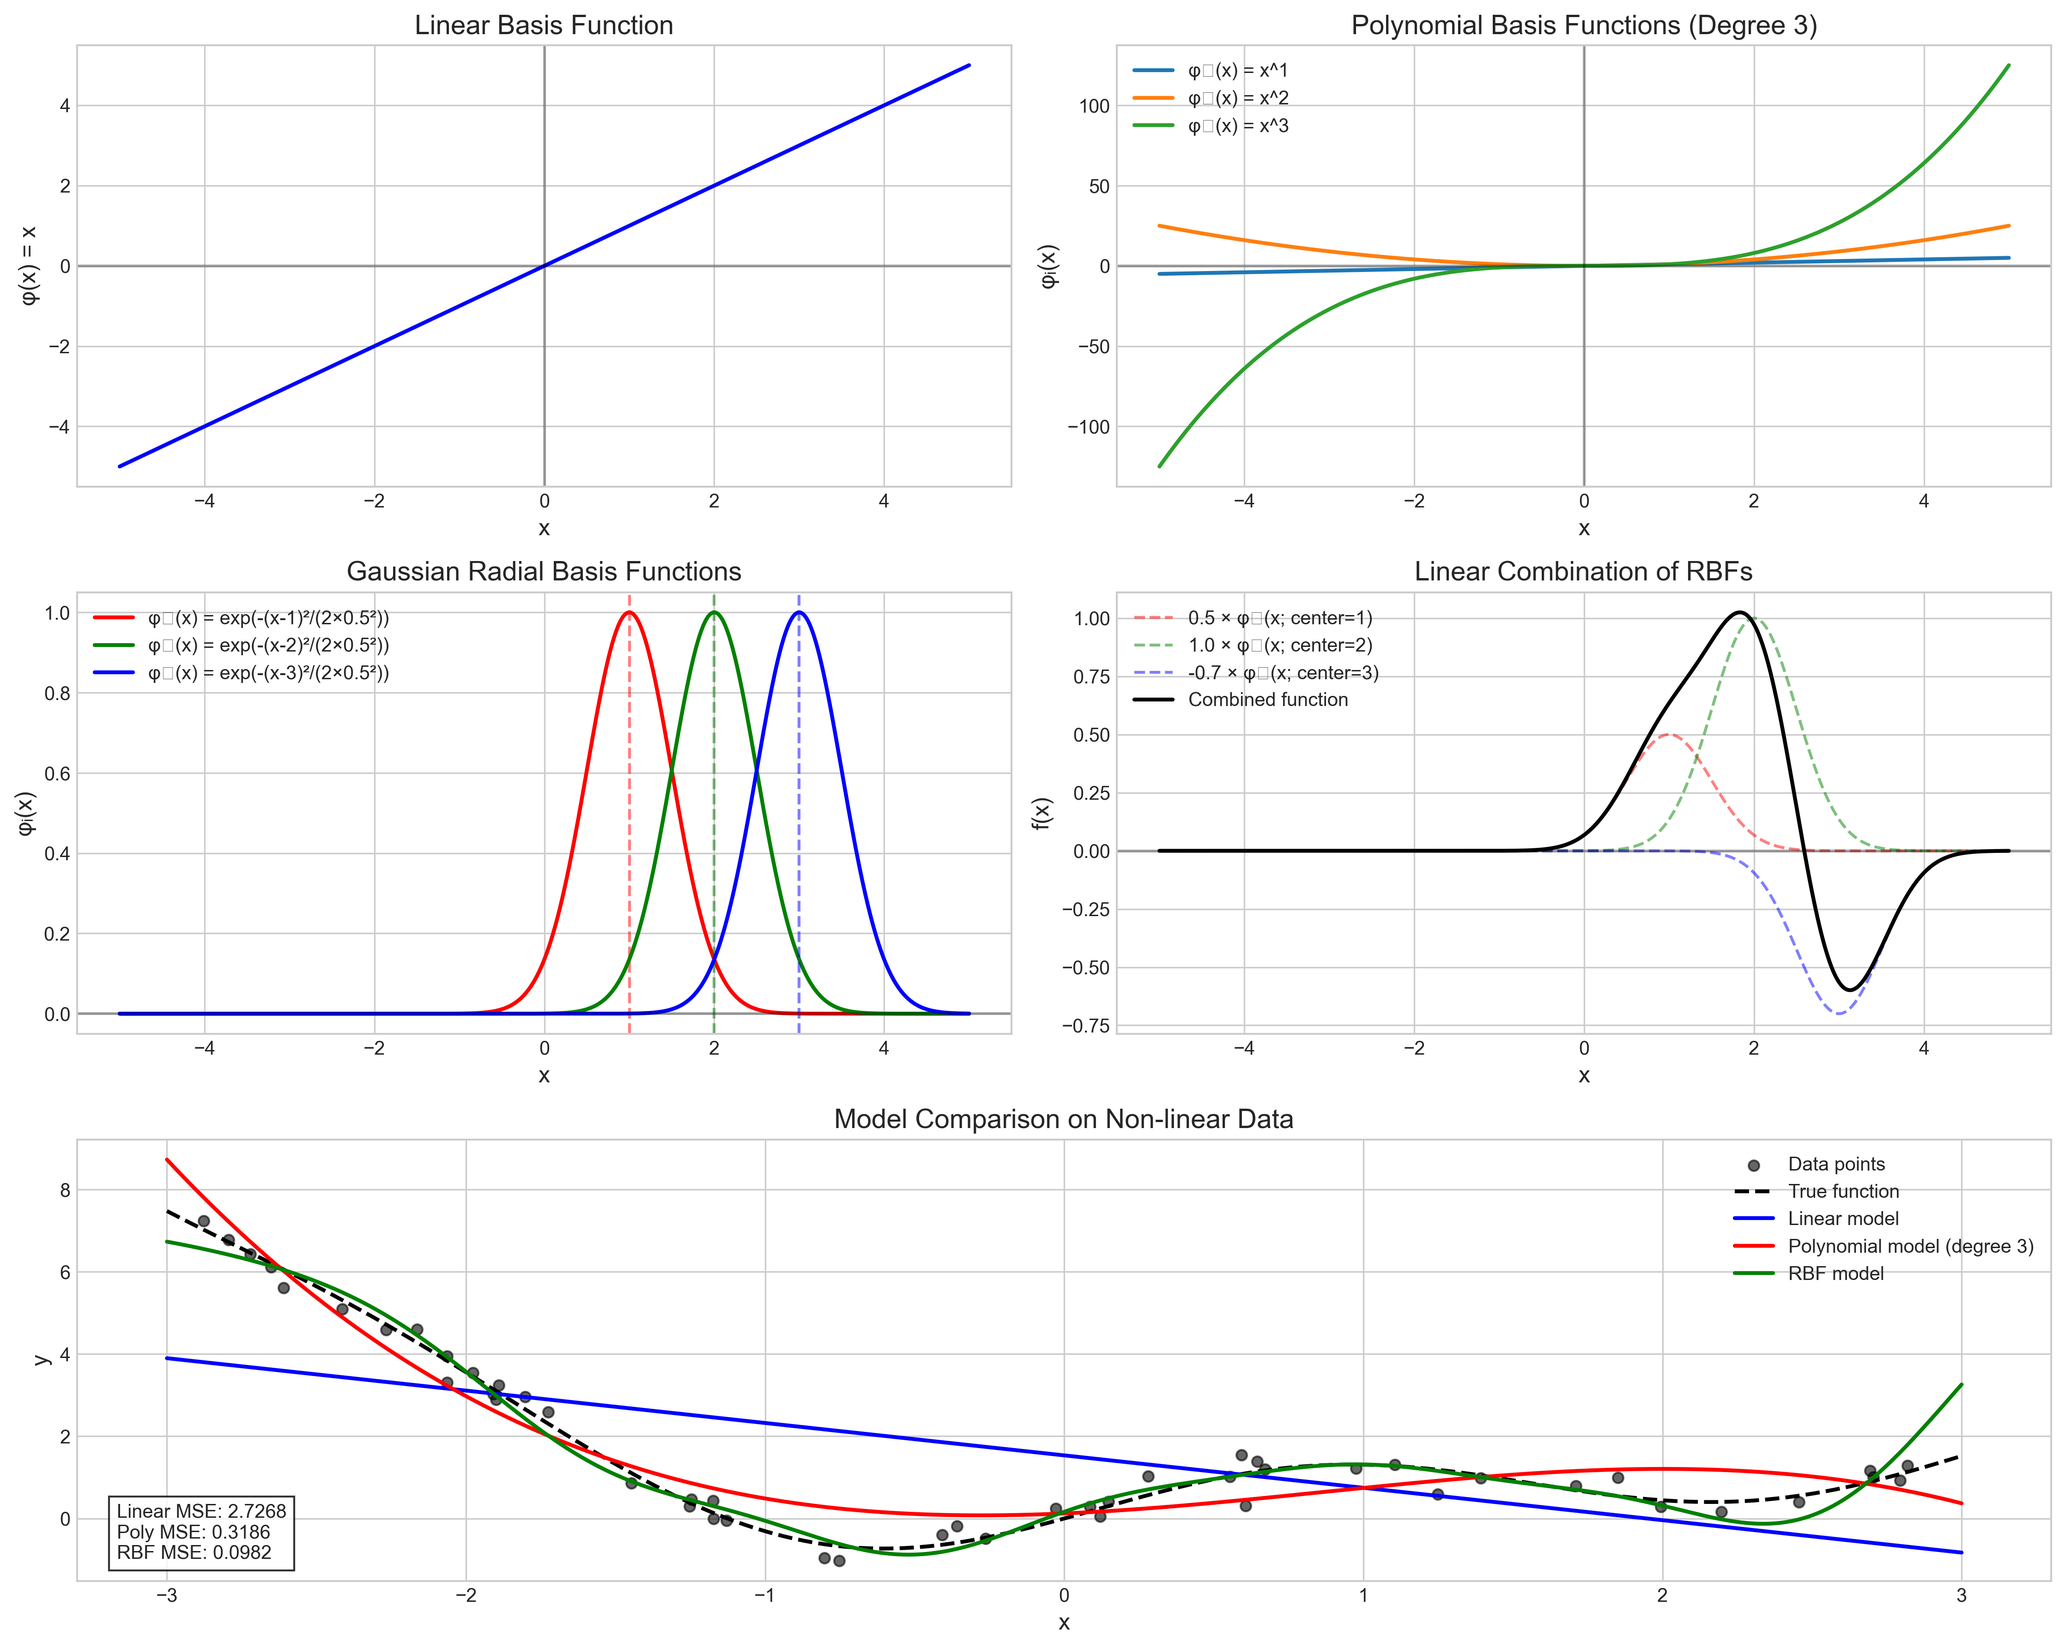
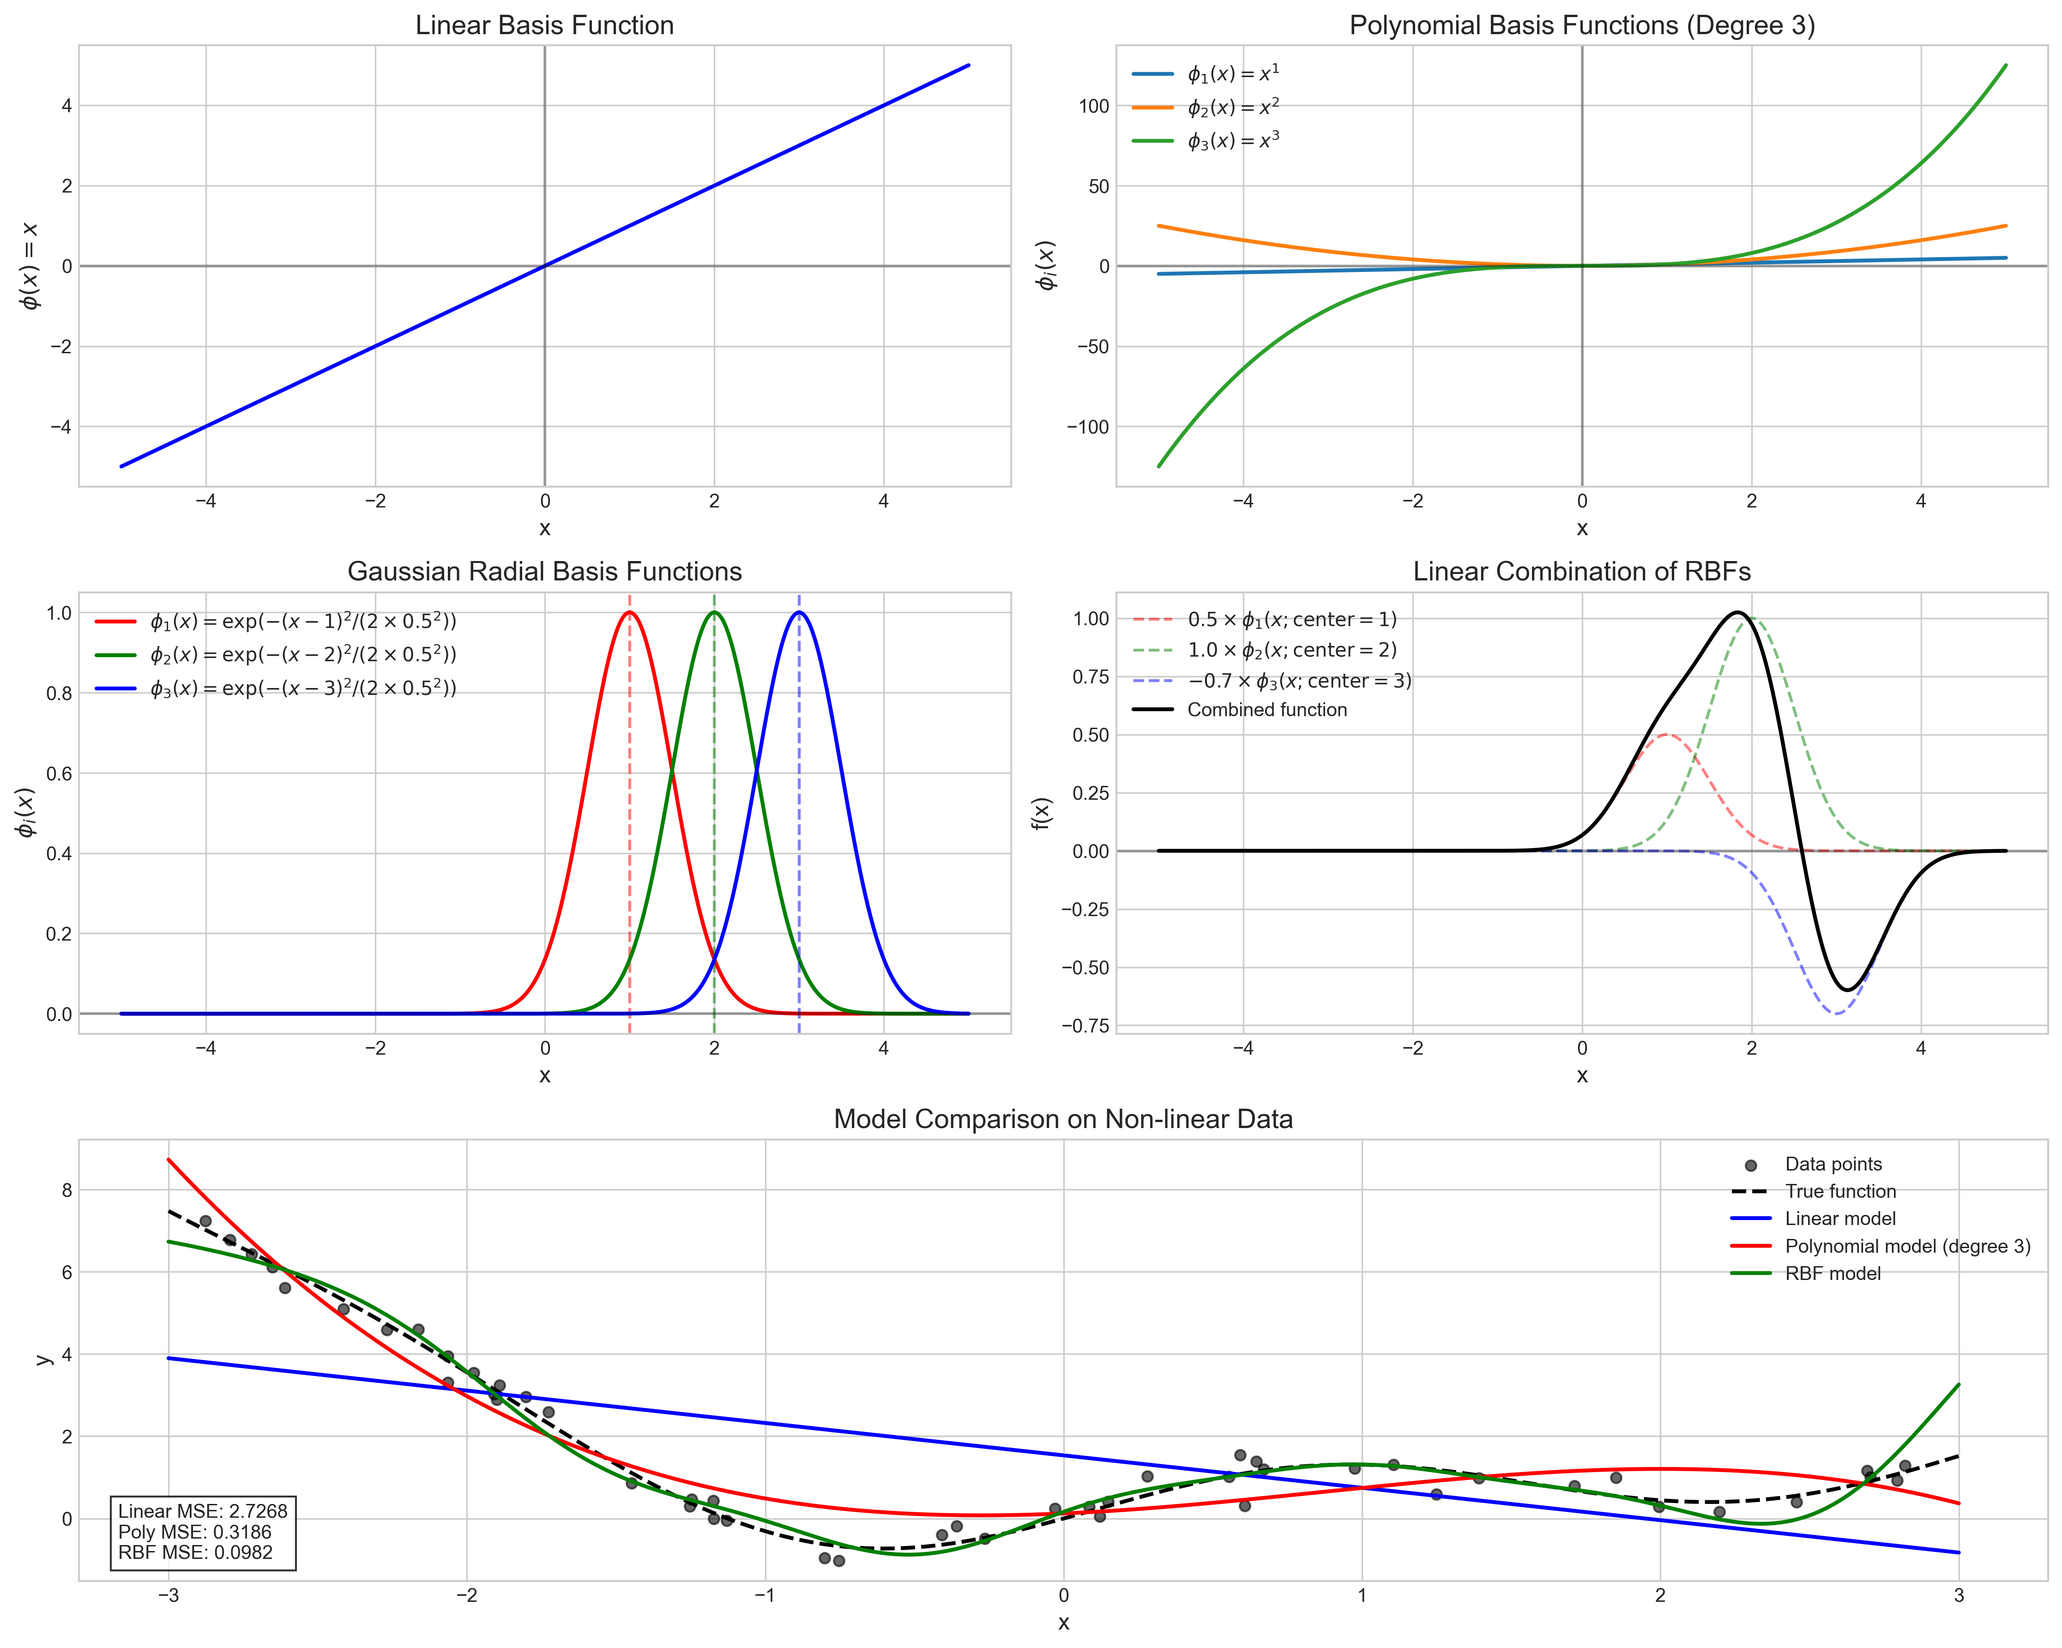
fix

diff --git a/ML_Obsidian_Vault/Lectures/3/Codes/L3_4_20_solution.py b/ML_Obsidian_Vault/Lectures/3/Codes/L3_4_20_solution.py
@@ -57,7 +57,7 @@ def step_2_define_basis_functions():
     
     # a) Linear regression basis
     print("a) Linear regression basis functions:")
-    print("   φ₁(x) = x")
+    print("   φ(x) = x")
     print("\nThis is the standard linear model where the input is used directly.")
     
     # b) Polynomial regression of degree 3
@@ -93,7 +93,7 @@ def step_3_visualize_basis_functions(x):
     ax1.plot(x, linear_basis(x), 'b-', linewidth=2)
     ax1.set_title('Linear Basis Function', fontsize=14)
     ax1.set_xlabel('x', fontsize=12)
-    ax1.set_ylabel('φ(x) = x', fontsize=12)
+    ax1.set_ylabel(r'$\phi(x) = x$', fontsize=12)
     ax1.grid(True)
     ax1.axhline(y=0, color='k', linestyle='-', alpha=0.3)
     ax1.axvline(x=0, color='k', linestyle='-', alpha=0.3)
@@ -101,10 +101,10 @@ def step_3_visualize_basis_functions(x):
     # b) Polynomial basis functions
     ax2 = fig.add_subplot(gs[0, 1])
     for i, p in enumerate(polynomial_basis(x), 1):
-        ax2.plot(x, p, linewidth=2, label=f'φ₁(x) = x^{i}')
+        ax2.plot(x, p, linewidth=2, label=r'$\phi_{%d}(x) = x^{%d}$' % (i, i))
     ax2.set_title('Polynomial Basis Functions (Degree 3)', fontsize=14)
     ax2.set_xlabel('x', fontsize=12)
-    ax2.set_ylabel('φᵢ(x)', fontsize=12)
+    ax2.set_ylabel(r'$\phi_i(x)$', fontsize=12)
     ax2.legend()
     ax2.grid(True)
     ax2.axhline(y=0, color='k', linestyle='-', alpha=0.3)
@@ -119,12 +119,12 @@ def step_3_visualize_basis_functions(x):
     
     for i, (rbf, center, color) in enumerate(zip(rbfs, centers, colors), 1):
         ax3.plot(x, rbf, color=color, linewidth=2, 
-                label=f'φ₁(x) = exp(-(x-{center})²/(2×{width}²))')
+                label=r'$\phi_{%d}(x) = \exp(-(x-%d)^2/(2\times%.1f^2))$' % (i, center, width))
         ax3.axvline(x=center, color=color, linestyle='--', alpha=0.5)
     
     ax3.set_title('Gaussian Radial Basis Functions', fontsize=14)
     ax3.set_xlabel('x', fontsize=12)
-    ax3.set_ylabel('φᵢ(x)', fontsize=12)
+    ax3.set_ylabel(r'$\phi_i(x)$', fontsize=12)
     ax3.legend()
     ax3.grid(True)
     ax3.axhline(y=0, color='k', linestyle='-', alpha=0.3)
@@ -137,7 +137,7 @@ def step_3_visualize_basis_functions(x):
     for i, (rbf, weight, center, color) in enumerate(zip(rbfs, weights, centers, colors), 1):
         weighted_component = weight * rbf
         ax4.plot(x, weighted_component, color=color, linestyle='--', alpha=0.5,
-                label=f'{weight} × φ₁(x; center={center})')
+                label=r'$%.1f \times \phi_{%d}(x; \mathrm{center}=%d)$' % (weight, i, center))
         weighted_sum += weighted_component
     
     ax4.plot(x, weighted_sum, 'k-', linewidth=2, label='Combined function')

diff --git a/ML_Obsidian_Vault/Lectures/3/Quiz/L3_4_20_explanation.md b/ML_Obsidian_Vault/Lectures/3/Quiz/L3_4_20_explanation.md
@@ -1,15 +1,25 @@
 # Question 20: Generalized Linear Models with Basis Functions
 
 ## Problem Statement
-In this question, we explore how Generalized Linear Models (GLMs) extend basic linear regression through the use of different basis functions. We'll investigate how these basis functions transform the input space to model complex, non-linear relationships while still maintaining the computational benefits of linear models.
+In generalized linear models, we use basis functions to transform the input data:
+
+$$f(\boldsymbol{x}; \boldsymbol{w}) = w_0 + w_1\phi_1(\boldsymbol{x}) + w_2\phi_2(\boldsymbol{x}) + \cdots + w_m\phi_m(\boldsymbol{x})$$
+
+where $\{\phi_1(\boldsymbol{x}), \ldots, \phi_m(\boldsymbol{x})\}$ is a set of basis functions.
 
 ### Task
-1. Explain how generalized linear models extend basic linear regression.
-2. Define and compare at least two different basis functions (linear, polynomial, radial basis functions, etc.).
-3. Recommend which basis functions to use for datasets with highly non-linear patterns.
+1. Explain how generalized linear models extend basic linear regression while still preserving the linear optimization techniques
+2. For a univariate input $x$, write down the specific basis functions for:
+   a) Linear regression
+   b) Polynomial regression of degree 3
+   c) Gaussian radial basis functions with centers at $c_1=1$, $c_2=2$, and $c_3=3$ with width $\sigma=0.5$
+3. Describe the key advantages and disadvantages of using:
+   a) Polynomial basis functions
+   b) Radial basis functions
+4. Given a dataset with highly non-linear patterns, explain which basis functions you would recommend and why
 
 ## Understanding the Problem
-Generalized Linear Models are an important extension of linear regression that allow us to model non-linear relationships while preserving the computational and analytical benefits of linear methods. The key insight is that by transforming the input features through basis functions, we can perform linear regression in the transformed space to capture non-linear patterns in the original space.
+Generalized Linear Models (GLMs) are an important extension of linear regression that allow us to model non-linear relationships while preserving the computational and analytical benefits of linear methods. The key insight is that by transforming the input features through basis functions, we can perform linear regression in the transformed space to capture non-linear patterns in the original space.
 
 Understanding how different basis functions behave and their relative strengths and weaknesses is crucial for applying GLMs effectively to real-world problems. This knowledge allows us to choose the most appropriate model for a given dataset and avoid issues such as overfitting or underfitting.
 
@@ -18,44 +28,55 @@ Understanding how different basis functions behave and their relative strengths 
 ### Step 1: How Generalized Linear Models Extend Linear Regression
 In basic linear regression, we model the target variable as a linear combination of input features:
 
-$$f(x) = w_0 + w_1x_1 + w_2x_2 + \ldots + w_nx_n$$
+$$f(\boldsymbol{x}) = w_0 + w_1x_1 + w_2x_2 + \cdots + w_nx_n$$
 
 Generalized Linear Models extend this approach by applying transformations to the inputs through basis functions:
 
-$$f(x) = w_0 + w_1\phi_1(x) + w_2\phi_2(x) + \ldots + w_m\phi_m(x)$$
+$$f(\boldsymbol{x}) = w_0 + w_1\phi_1(\boldsymbol{x}) + w_2\phi_2(\boldsymbol{x}) + \cdots + w_m\phi_m(\boldsymbol{x})$$
 
-Where $\phi_i(x)$ are basis functions that transform the input features.
+where $\phi_i(\boldsymbol{x})$ are basis functions that transform the input features.
 
 Despite these transformations, GLMs preserve linear optimization techniques because:
-1. The model remains linear in the parameters $(w_0, w_1, \ldots, w_m)$
+1. The model remains linear in the parameters $\boldsymbol{w} = (w_0, w_1, \ldots, w_m)$
 2. The same linear algebra methods can be used for parameter estimation
 3. The objective function (like sum of squared errors) maintains the same form
-4. The normal equations for finding the optimal weights remain valid
+4. The normal equations for finding the optimal weights remain valid:
+   $$\boldsymbol{w} = (\boldsymbol{\Phi}^T\boldsymbol{\Phi})^{-1}\boldsymbol{\Phi}^T\boldsymbol{y}$$
 
 This means we can use the same efficient optimization methods as linear regression while gaining the ability to model non-linear relationships in the original input space.
 
 ### Step 2: Defining Different Basis Functions
-Let's explore three common types of basis functions used in GLMs:
+Let's explore three common types of basis functions used in GLMs for a univariate input $x$:
 
-**a) Linear Basis Function:**
-```
-φ(x) = x
-```
+**a) Linear Regression Basis Functions:**
+
+$$\phi_1(x) = x$$
+
 This is the simplest basis function and gives us the standard linear model where the input is used directly.
 
 **b) Polynomial Basis Functions (Degree 3):**
-```
-φ₁(x) = x
-φ₂(x) = x²
-φ₃(x) = x³
-```
-Polynomial basis functions transform the input into powers of x up to a specified degree. This allows the model to capture non-linear relationships with curved shapes.
+
+$$\phi_1(x) = x$$
+$$\phi_2(x) = x^2$$
+$$\phi_3(x) = x^3$$
+
+Polynomial basis functions transform the input into powers of $x$ up to a specified degree. This allows the model to capture non-linear relationships with curved shapes. The resulting model is:
+
+$$f(x) = w_0 + w_1x + w_2x^2 + w_3x^3$$
 
 **c) Gaussian Radial Basis Functions:**
-```
-φᵢ(x) = exp(-(x-cᵢ)²/(2σ²))
-```
-Where cᵢ is the center of the basis function and σ is the width parameter. These functions create localized "bumps" centered at specific points with controlled width, allowing the model to capture complex local patterns.
+
+For centers at $c_1=1$, $c_2=2$, and $c_3=3$ with width $\sigma=0.5$:
+
+$$\phi_1(x) = \exp\left(-\frac{(x-1)^2}{2(0.5)^2}\right)$$
+$$\phi_2(x) = \exp\left(-\frac{(x-2)^2}{2(0.5)^2}\right)$$
+$$\phi_3(x) = \exp\left(-\frac{(x-3)^2}{2(0.5)^2}\right)$$
+
+More generally, the Gaussian RBF with center $c_i$ and width $\sigma$ is defined as:
+
+$$\phi_i(x) = \exp\left(-\frac{(x-c_i)^2}{2\sigma^2}\right)$$
+
+These functions create localized "bumps" centered at specific points with controlled width, allowing the model to capture complex local patterns.
 
 ### Step 3: Visualizing the Basis Functions
 To better understand how these basis functions behave, we can visualize them:
@@ -70,9 +91,9 @@ This visualization shows:
 5. A comparison of different models (linear, polynomial, RBF) on non-linear data
 
 When comparing these models on non-linear data, we observe:
-- Linear model (MSE: 2.7268) fails to capture the non-linear pattern
-- Polynomial model (MSE: 0.3186) fits the overall trend but struggles with local variations
-- RBF model (MSE: 0.0982) captures both global and local patterns effectively
+- Linear model (MSE: $2.7268$) fails to capture the non-linear pattern
+- Polynomial model (MSE: $0.3186$) fits the overall trend but struggles with local variations
+- RBF model (MSE: $0.0982$) captures both global and local patterns effectively
 
 ### Step 4: Understanding Overfitting with Different Basis Functions
 As we increase the complexity of our basis functions, we risk overfitting to the training data:
@@ -80,14 +101,14 @@ As we increase the complexity of our basis functions, we risk overfitting to the
 ![Overfitting Demonstration](../Images/L3_4_Quiz_20/overfitting_demonstration.png)
 
 For polynomial models:
-- Low degree (1): Underfits the data (high bias)
-- Medium degree (3): Balances bias and variance
-- High degree (9): Overfits severely, especially outside the training range
+- Low degree ($d=1$): Underfits the data (high bias)
+- Medium degree ($d=3$): Balances bias and variance
+- High degree ($d=9$): Overfits severely, especially outside the training range
 
 For RBF models:
-- Few centers (3): Provides a smoother fit that generalizes better
-- Medium centers (6): Captures more local variations while maintaining generalization
-- Many centers (15): Can overfit but tends to be more stable than high-degree polynomials
+- Few centers ($n=3$): Provides a smoother fit that generalizes better
+- Medium centers ($n=6$): Captures more local variations while maintaining generalization
+- Many centers ($n=15$): Can overfit but tends to be more stable than high-degree polynomials
 
 The relationship between model complexity and error is further illustrated in this chart:
 
@@ -107,7 +128,7 @@ This demonstrates the classic bias-variance tradeoff:
 2. Good for smooth, global trends
 3. Efficient computation for low degrees
 4. Well-studied mathematical properties
-5. Can exactly represent many common functions
+5. Can exactly represent many common functions (e.g., $f(x) = ax^2 + bx + c$)
 
 *Disadvantages:*
 1. Prone to severe overfitting with high degrees
@@ -126,7 +147,7 @@ This demonstrates the classic bias-variance tradeoff:
 5. Robust to outliers with proper center and width selection
 
 *Disadvantages:*
-1. Requires choosing centers and widths (hyperparameter selection)
+1. Requires choosing centers $\{c_i\}$ and widths $\{\sigma_i\}$ (hyperparameter selection)
 2. Can be computationally expensive with many centers
 3. Less interpretable than polynomials
 4. May require more parameters for global trends
@@ -140,20 +161,21 @@ For datasets with highly non-linear patterns, the following approach is recommen
 - They provide more stable extrapolation behavior
 - They're less prone to catastrophic overfitting
 - Strategies for implementation:
-  - Use k-means clustering to determine centers
-  - Adjust width parameter based on data density
+  - Use k-means clustering to determine centers $\{c_i\}$
+  - Adjust width parameter $\sigma$ based on data density
   - Consider regularization to prevent overfitting
 
 **2. Alternative Approach: Combination of Basis Functions**
 - Combine polynomial terms (for global trends) with RBFs (for local patterns)
 - This hybrid approach can capture both smooth global behavior and local irregularities
-- Example: $f(x) = w_0 + w_1x + w_2x^2 + w_3\phi_1(x) + w_4\phi_2(x) + \ldots$
+- Example: 
+  $$f(x) = w_0 + w_1x + w_2x^2 + w_3\phi_1(x) + w_4\phi_2(x) + \cdots$$
 
 **3. Implementation Considerations:**
 - Start simple and gradually increase complexity
 - Use cross-validation to select optimal hyperparameters
 - Monitor training vs. validation error to detect overfitting
-- Consider regularization techniques (L1/L2) to control model complexity
+- Consider regularization techniques ($L1$/$L2$) to control model complexity
 - For very complex patterns, consider modern approaches like:
   - Gaussian Processes (extension of RBF approach)
   - Spline-based methods
@@ -190,7 +212,7 @@ This plot shows:
 
 ### Theoretical Foundations
 - GLMs extend linear regression by applying transformations through basis functions
-- Despite these transformations, the model remains linear in its parameters
+- Despite these transformations, the model remains linear in its parameters $\boldsymbol{w}$
 - This preserves the computational and mathematical benefits of linear methods
 - The choice of basis functions determines the model's flexibility and capability to capture non-linear patterns
 - A model is only as good as its basis functions' ability to represent the underlying pattern
